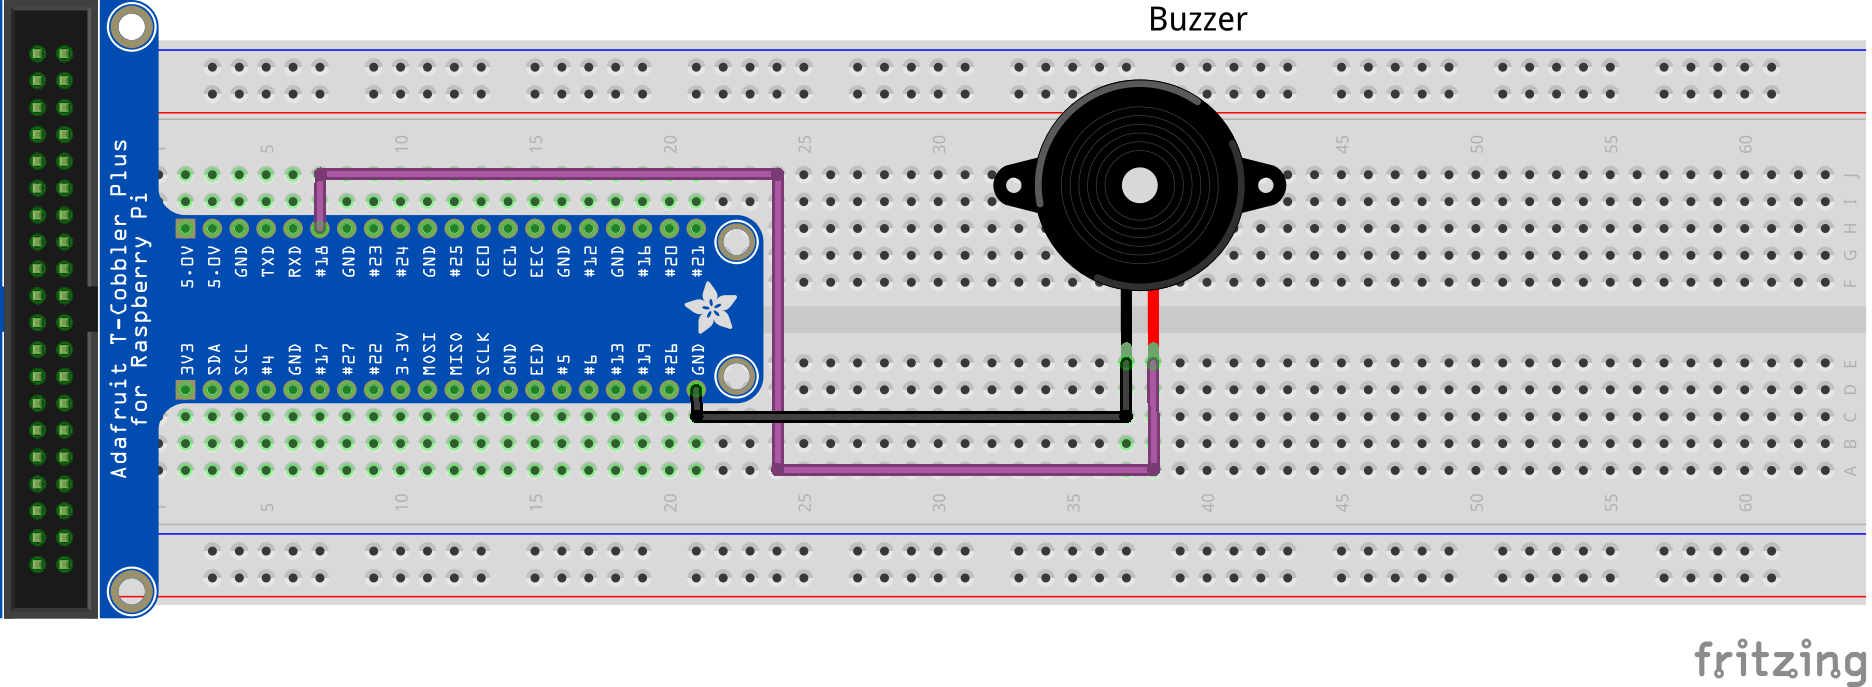
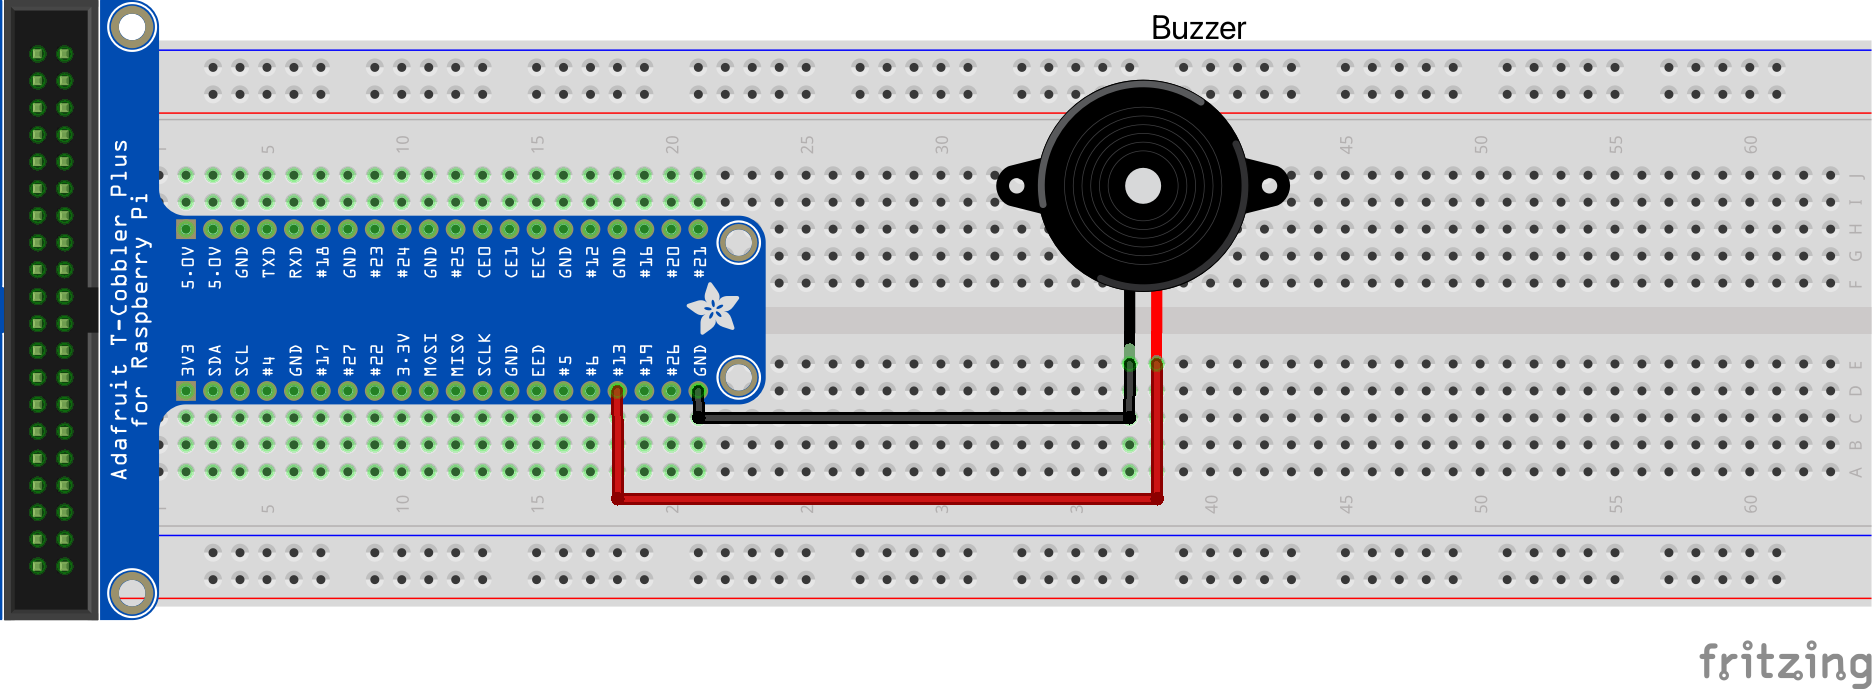
broken link to Joystick wiring buzzer wiring updated

diff --git a/content/examples/components/Joystick.md b/content/examples/components/Joystick.md
@@ -18,7 +18,7 @@ The template class allows to query the individual joystick positions and can tri
 
 {{< gallery >}}
 {{< figure link="/assets/examples/components/components/pictures/JoystickDigitalBreadboard.png" caption="Joystick Digital Breadboard" caption-position="center" caption-effect="fade" >}}
-{{< figure link="/assets/examples/components/components/pictures/JoystickDigitalDetail.jpg" caption="Joystick Digital Breadboard Detail" caption-position="center" caption-effect="fade" >}}
+{{< figure link="/assets/examples/components/components/pictures/JoystickDigitalBreadboardDetail.jpg" caption="Joystick Digital Breadboard Detail" caption-position="center" caption-effect="fade" >}}
 {{< figure link="/assets/examples/components/components/pictures/JoystickDigitalTopView.png" caption="Joystick Digital Top View" caption-position="center" caption-effect="fade" >}}
 {{< figure link="/assets/examples/components/components/pictures/JoystickDigitalBackViewAllAxis.png" caption="Joystick Digital Back View All Axis" caption-position="center" caption-effect="fade" >}}
 {{< figure link="/assets/examples/components/components/pictures/JoystickDigitalBackViewOneAxis.png" caption="Joystick Digital Back View One Axis" caption-position="center" caption-effect="fade" >}}
